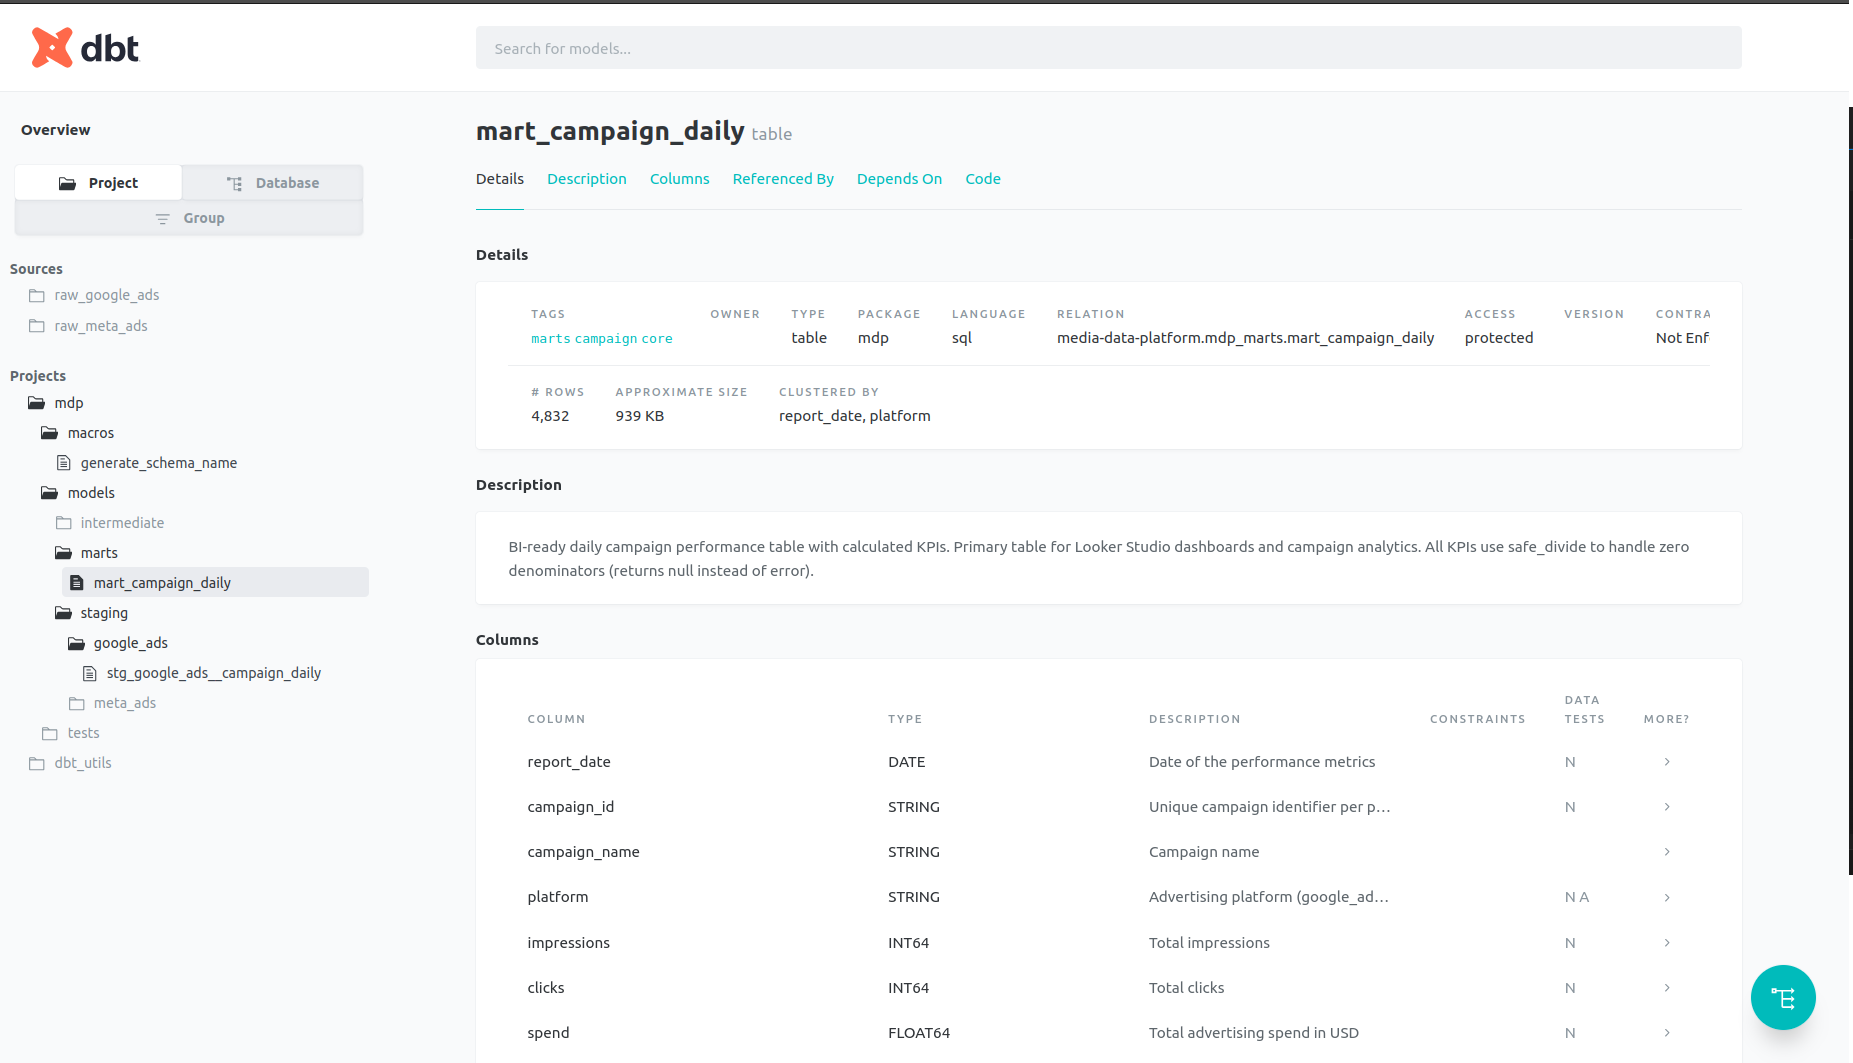
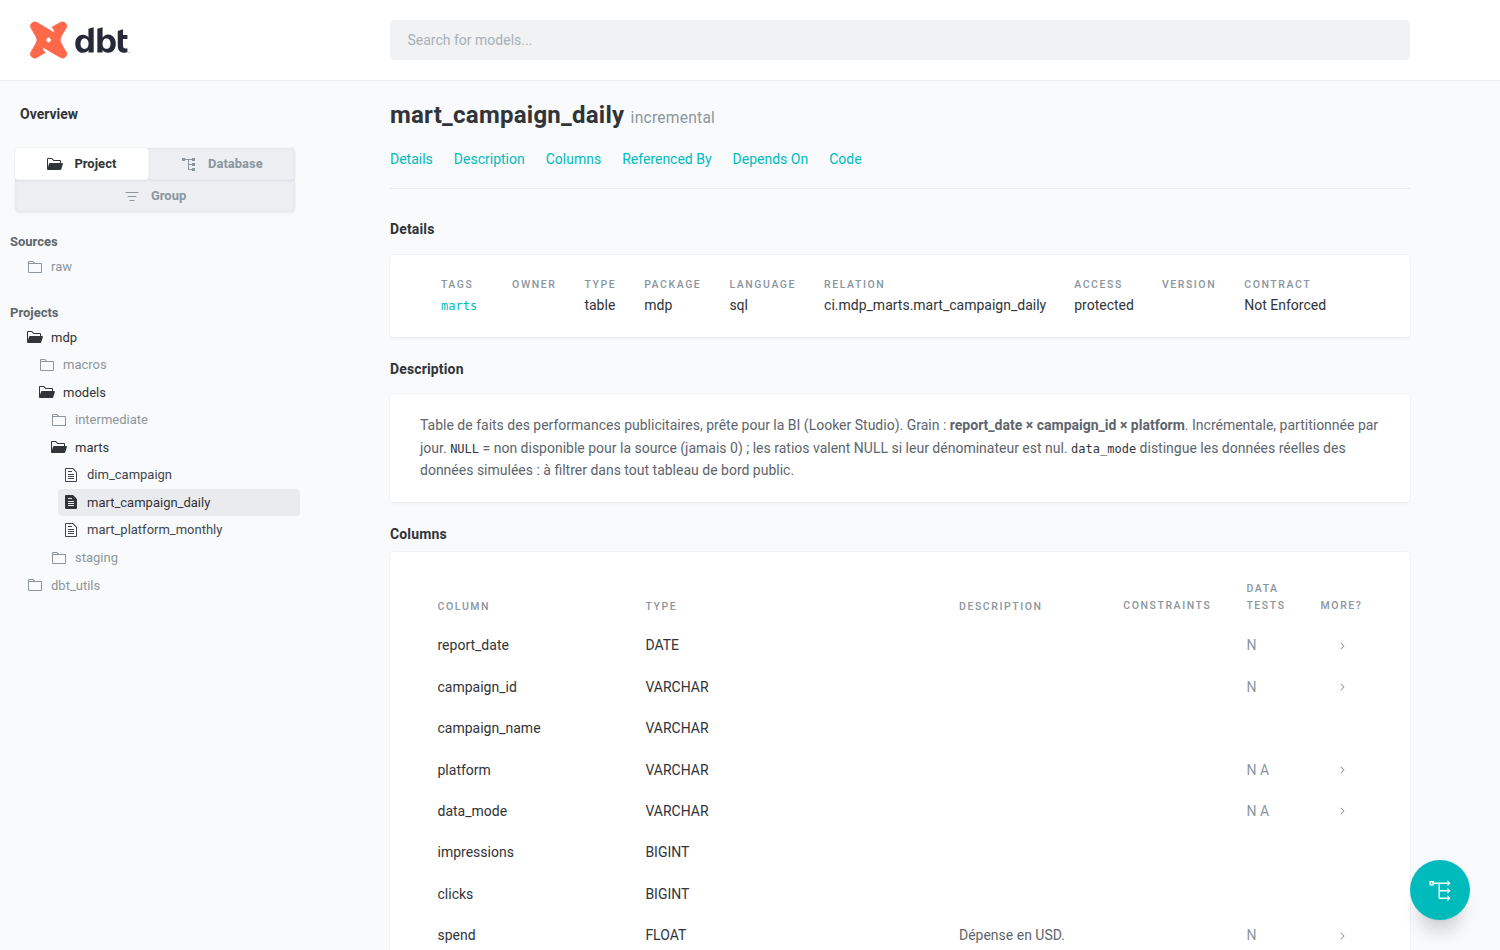
Media Data Platform : rafraîchir les captures dbt après la refonte du code

diff --git a/docs/projets/agence_media.md b/docs/projets/agence_media.md
@@ -62,20 +62,28 @@ Meta Ads API (réelle)          Google Ads (simulé)
 ![BigQuery datasets](../images_projets/agence_media/bigquery_datasets.png)
 *4 datasets avec responsabilités distinctes : raw → staging → intermediate → marts.*
 
+> Capture antérieure à la refonte du chargement idempotent ; à reprendre une fois l'infrastructure appliquée sur un projet GCP réel.
+
 ---
 
 ### BigQuery — Table finale
 
 ![BigQuery mart_campaign_daily](../images_projets/agence_media/bigquery_mart.png)
-*`mart_campaign_daily` : ~4 700 lignes, KPI calculés, données Meta + Google unifiées.*
+*`mart_campaign_daily` : KPI calculés, données Meta + Google unifiées.*
+
+> Même limite : capture à refaire sur BigQuery une fois l'infrastructure appliquée.
 
 ---
 
 ### dbt — Run & Tests
 
-![dbt run results](../images_projets/agence_media/dbt_run.png)
-![dbt test results](../images_projets/agence_media/dbt_test.png)
-*4 modèles PASS · 36 tests PASS · aucun warning.*
+Exécution réelle sur DuckDB (mêmes modèles et tests que sur BigQuery), après la refonte du chargement idempotent :
+
+```
+Finished running 1 incremental model, 2 table models, 47 data tests, 4 unit tests, 3 view models
+Completed successfully
+Done. PASS=57 WARN=0 ERROR=0 SKIP=0 NO-OP=0 TOTAL=57
+```
 
 ---
 
@@ -87,6 +95,7 @@ Meta Ads API (réelle)          Google Ads (simulé)
 ### dbt — Documentation
 
 ![Documentation dbt](../images_projets/agence_media/dbt_serve.png)
+*Documentation générée automatiquement (`dbt docs generate`), sans compte cloud : colonnes, description, tests, relation cible.*
 
 ---
 
